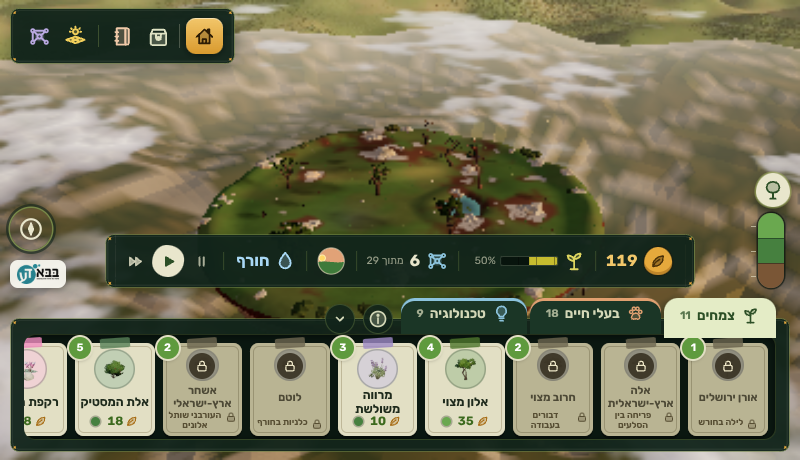
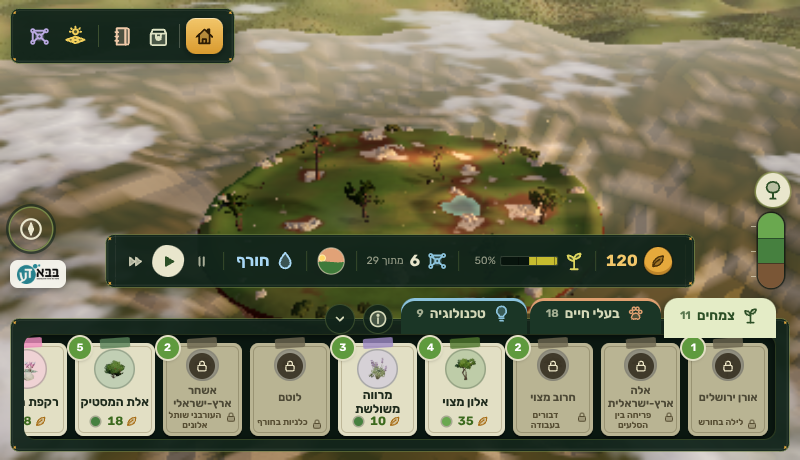
Reef missions: the survey device is the underwater robot (רובוט צולל), not a drone, in the kids and full mission texts
Claude-Session: https://claude.ai/code/session_01WpYvibMhFExMiNaztRm1kz

diff --git a/src/data/reef.js b/src/data/reef.js
@@ -389,7 +389,7 @@ export const BIOME = {
     { id: 'r8', title: 'השונית בלילה', text: 'בלילה השונית מתעוררת: הפלנקטון עולה, והאלמוגים פותחים את הפוליפים. הביאו פלנקטון וחכו ללילה.', hint: 'בלילה חפשו את האור הכחול של הפלנקטון.', after: 'r7', goal: { type: 'observeNight' }, reward: { points: 40, unlock: ['octopus', 'hermit', 'stingray', 'seafan', 'jellyfish'] } },
     { id: 'r9', title: 'שרשרת מזון בים', text: 'פלנקטון מאכיל חסילון, וחסילון מאכיל טורף. בנו שרשרת מזון של 3 חוליות.', hint: 'למשל: פלנקטון ← חסילון ← תמנון.', after: 'r8', goal: { type: 'chain', length: 3 }, reward: { points: 45, unlock: ['table', 'butterflyfish', 'starfish'] } },
     { id: 'r10', title: 'שונית בריאה', text: 'שמרו על שונית בריאה, עם הרבה מינים וקשרים, במשך דקה אחת.', hint: 'בדקו שיש מי שאוכל את האצות, ושלאלמוגים יש אור.', after: 'r9', goal: { type: 'health', min: 0.7, seconds: 60 }, reward: { points: 80, unlock: ['clam'] } },
-    { id: 'r11', title: 'עין מעל המים', text: 'שלחו רחפן ניטור לסרוק את השונית ולמצוא מה צריך תיקון.', hint: 'פתחו את לשונית "טכנולוגיה" במגש וגררו את רחפן הניטור אל השונית.', after: 'r10', goal: { type: 'tool', tool: 'drone', count: 1 }, reward: { points: 30, unlock: ['reefshark'] } },
+    { id: 'r11', title: 'עין מתחת למים', text: 'שלחו רובוט צולל לסרוק את השונית ולמצוא מה צריך תיקון.', hint: 'פתחו את לשונית "טכנולוגיה" במגש וגררו את הרובוט הצולל אל השונית.', after: 'r10', goal: { type: 'tool', tool: 'drone', count: 1 }, reward: { points: 30, unlock: ['reefshark'] } },
     { id: 'r12', title: 'צלמים מתחת למים', text: 'הציבו מצלמות שטח ליד השונית. צלמו 4 מינים שונים.', hint: 'מצלמה ליד שושנת ים או ליד אלמוג גדול תצלם יותר דגים.', after: 'r11', goal: { type: 'photos', count: 4 }, reward: { points: 35, unlock: [] } },
     { id: 'r13', title: 'שונית מלאה חיים', text: 'האתגר הגדול: הגיעו ל-20 מינים שחיים ביחד בשונית אחת.', hint: 'בדקו בדוח של רחפן הניטור מי חסר למי.', after: 'r12', goal: { type: 'speciesAlive', count: 20 }, reward: { points: 120, unlock: [] } },
   ],

diff --git a/src/data/kids.js b/src/data/kids.js
@@ -179,7 +179,7 @@ export const KIDS = {
       { id: 'k3', title: 'דג אוכל אצות', text: 'התוכינון אוכל אצות ושומר על האלמוגים. שתלו אצות והביאו תוכינון.', hint: 'גררו תוכינון אל השונית, ליד האצות.', after: 'k2', goal: { type: 'link', from: 'parrotfish', to: 'algae' }, reward: { points: 25, unlock: ['turtle'] } },
       { id: 'k4', title: 'הצב רועה בעשב', text: 'צב הים אוכל עשב ים. שתלו עשב ים והביאו צב.', hint: 'גררו צב ים אל השונית, ליד עשב הים.', after: 'k3', goal: { type: 'link', from: 'turtle', to: 'seagrass' }, reward: { points: 30, unlock: ['urchin'] } },
       { id: 'k5', title: 'קיפוד שמגרד אצות', text: 'קיפוד הים מגרד אצות מהסלע. הביאו קיפוד ים אל האצות.', hint: 'גררו קיפוד ים אל השונית, ליד האצות.', after: 'k4', goal: { type: 'link', from: 'urchin', to: 'algae' }, reward: { points: 30, unlock: [] } },
-      { id: 'k6', title: 'רחפן עוזר', text: 'הרחפן עף מעל השונית ובודק שהכול בסדר. שלחו רחפן אחד.', hint: 'גררו רחפן מהלשונית "טכנולוגיה" אל השונית.', after: 'k5', goal: { type: 'tool', tool: 'drone', count: 1 }, reward: { points: 40, unlock: [] } },
+      { id: 'k6', title: 'רובוט צולל עוזר', text: 'הרובוט הצולל שוחה לאורך השונית ובודק שהכול בסדר. שלחו רובוט צולל אחד.', hint: 'גררו רובוט צולל מהלשונית "טכנולוגיה" אל השונית.', after: 'k5', goal: { type: 'tool', tool: 'drone', count: 1 }, reward: { points: 40, unlock: [] } },
     ],
     tips: [
       'האלמוג הוא בעל חיים, לא אבן ולא צמח.',
